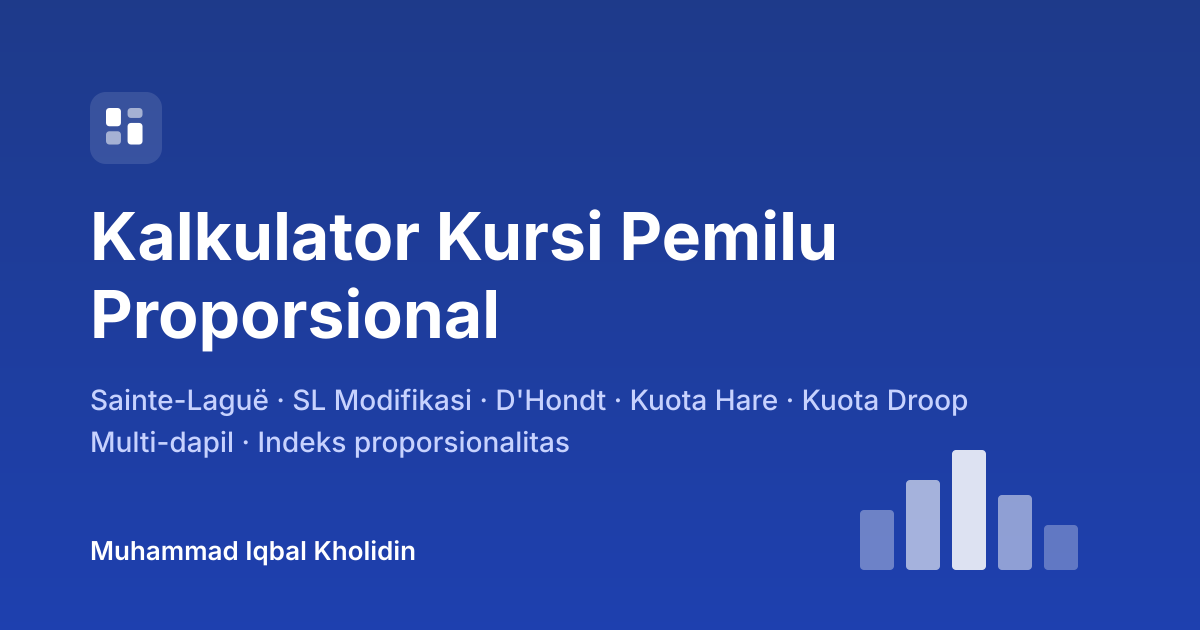
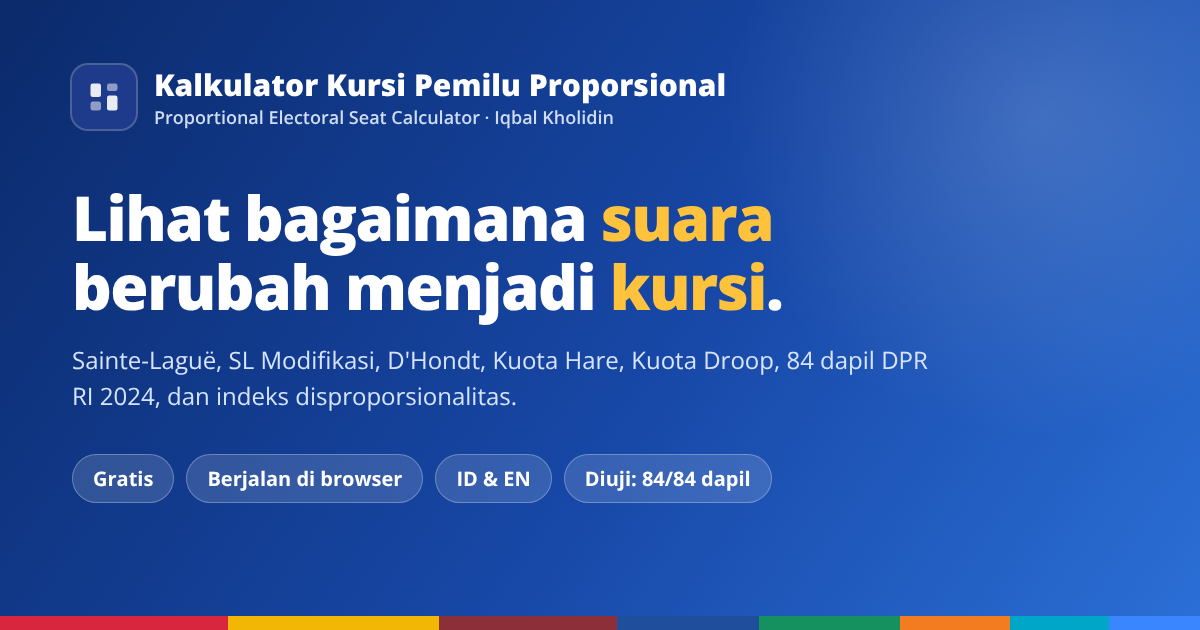
v2.0.1 (7/7): menu tautan, nama bulan, gambar pratinjau, changelog

diff --git a/index.html b/index.html
@@ -25,7 +25,7 @@
 <link href="https://fonts.googleapis.com/css2?family=Open+Sans:ital,wght@0,300;0,400;0,600;0,700;0,800;1,400&display=swap" rel="stylesheet">
 <script src="https://cdnjs.cloudflare.com/ajax/libs/Chart.js/4.4.1/chart.umd.min.js"></script>
 <script>(function(){try{var t=localStorage.getItem('kk-theme');if(!t&&window.matchMedia&&matchMedia('(prefers-color-scheme: dark)').matches)t='dark';if(t==='dark')document.documentElement.setAttribute('data-theme','dark');}catch(e){}})();</script>
-<link rel="stylesheet" href="css/style.css?v=2.0.0">
+<link rel="stylesheet" href="css/style.css?v=2.0.1">
 </head>
 <body>
 
@@ -57,17 +57,17 @@
 <header class="hdr" id="hdr"><div class="hdr-in">
   <a class="brand" href="/" onclick="goTo('home');return false"><span class="brand-logo"><svg viewBox="0 0 24 24" fill="none" aria-hidden="true"><rect x="3" y="3" width="7" height="9" rx="1.5" fill="white" opacity="0.9"/><rect x="3" y="15" width="7" height="6" rx="1.5" fill="white" opacity="0.5"/><rect x="14" y="3" width="7" height="5" rx="1.5" fill="white" opacity="0.5"/><rect x="14" y="11" width="7" height="10" rx="1.5" fill="white" opacity="0.9"/></svg></span><span class="brand-tx"><b data-i18n="brand_short">Kalkulator Kursi</b><small data-i18n="brand_sub">Pemilu Proporsional · Iqbal Kholidin</small></span></a>
   <nav class="mainnav" aria-label="Menu utama">
-    <button id="nb-home" class="active" onclick="goTo('home')" data-i18n="nav_home">Beranda</button>
-    <button id="nb-calc" onclick="goTo('calc')" data-i18n="nav_s_calc">Satu Dapil</button>
-    <button id="nb-multi" onclick="goTo('multi')" data-i18n="nav_s_multi">Multi-Dapil</button>
-    <button id="nb-index" onclick="goTo('index')" data-i18n="nav_index">Indeks</button>
+    <a id="nb-home" class="active" href="/" onclick="goTo('home');return false" data-i18n="nav_home">Beranda</a>
+    <a id="nb-calc" href="/satu-dapil/" onclick="goTo('calc');return false" data-i18n="nav_s_calc">Satu Dapil</a>
+    <a id="nb-multi" href="/multi-dapil/" onclick="goTo('multi');return false" data-i18n="nav_s_multi">Multi-Dapil</a>
+    <a id="nb-index" href="/indeks/" onclick="goTo('index');return false" data-i18n="nav_index">Indeks</a>
     <div class="dd" id="ddGuide"><button class="dd-btn" onclick="toggleGuide(event)" aria-haspopup="true"><span data-i18n="nav_guide">Panduan</span><span class="chev">&#9662;</span></button>
       <div class="dd-menu">
-        <button id="nb-tutorial" onclick="goTo('tutorial')"><span data-i18n="nav_tutorial">Tutorial</span><small data-i18n="nav_g_tut">Langkah memakai kalkulator</small></button>
-        <button id="nb-meth" onclick="goTo('meth')"><span data-i18n="nav_meth">Metodologi</span><small data-i18n="nav_g_meth">Rumus, dasar hukum, dan rujukan</small></button>
-        <button id="nb-validasi" onclick="goTo('validasi')"><span data-i18n="nav_validasi">Validasi</span><small data-i18n="nav_g_val">Uji hasil terhadap data resmi</small></button>
+        <a id="nb-tutorial" href="/tutorial/" onclick="goTo('tutorial');return false"><span data-i18n="nav_tutorial">Tutorial</span><small data-i18n="nav_g_tut">Langkah memakai kalkulator</small></a>
+        <a id="nb-meth" href="/metodologi/" onclick="goTo('meth');return false"><span data-i18n="nav_meth">Metodologi</span><small data-i18n="nav_g_meth">Rumus, dasar hukum, dan rujukan</small></a>
+        <a id="nb-validasi" href="/validasi/" onclick="goTo('validasi');return false"><span data-i18n="nav_validasi">Validasi</span><small data-i18n="nav_g_val">Uji hasil terhadap data resmi</small></a>
       </div></div>
-    <button id="nb-about" onclick="goTo('about')" data-i18n="nav_about">Profil</button>
+    <a id="nb-about" href="/profil/" onclick="goTo('about');return false" data-i18n="nav_about">Profil</a>
   </nav>
   <div class="hdr-tools">
     <div class="lang-sw"><button id="lang-id" class="on" onclick="setLang('id')">ID</button><button id="lang-en" onclick="setLang('en')">EN</button></div>
@@ -120,13 +120,13 @@
     <div class="home-cards">
       <div class="hcard hc1" onclick="goTo('calc')"><div class="ic"><svg viewBox="0 0 24 24" fill="none" stroke="currentColor" stroke-width="2" stroke-linecap="round" aria-hidden="true"><rect x="4" y="4" width="16" height="16" rx="3"/><path d="M8 15v-3M12 15V9M16 15v-5"/></svg></div>
         <h3 data-i18n="home_c1_h">Kalkulator Satu Dapil</h3><p data-i18n="home_c1_p"></p>
-        <ul><li data-i18n="home_c1_l1"></li><li data-i18n="home_c1_l2"></li><li data-i18n="home_c1_l3"></li></ul><span class="go" data-i18n="home_go">Buka kalkulator →</span></div>
+        <ul><li data-i18n="home_c1_l1"></li><li data-i18n="home_c1_l2"></li><li data-i18n="home_c1_l3"></li></ul><a class="go" href="/satu-dapil/" onclick="event.stopPropagation();goTo('calc');return false" data-i18n="home_go">Buka kalkulator →</a></div>
       <div class="hcard hc2" onclick="goTo('multi')"><div class="ic"><svg viewBox="0 0 24 24" fill="none" stroke="currentColor" stroke-width="2" stroke-linecap="round" aria-hidden="true"><rect x="3" y="4" width="8" height="7" rx="2"/><rect x="13" y="4" width="8" height="7" rx="2"/><rect x="3" y="13" width="8" height="7" rx="2"/><rect x="13" y="13" width="8" height="7" rx="2"/></svg></div>
         <h3 data-i18n="home_c2_h">Kalkulator Multi-Dapil</h3><p data-i18n="home_c2_p"></p>
-        <ul><li data-i18n="home_c2_l1"></li><li data-i18n="home_c2_l2"></li><li data-i18n="home_c2_l3"></li></ul><span class="go" data-i18n="home_go">Buka kalkulator →</span></div>
+        <ul><li data-i18n="home_c2_l1"></li><li data-i18n="home_c2_l2"></li><li data-i18n="home_c2_l3"></li></ul><a class="go" href="/multi-dapil/" onclick="event.stopPropagation();goTo('multi');return false" data-i18n="home_go">Buka kalkulator →</a></div>
       <div class="hcard hc3" onclick="goTo('index')"><div class="ic"><svg viewBox="0 0 24 24" fill="none" stroke="currentColor" stroke-width="2" stroke-linecap="round" aria-hidden="true"><path d="M4 19h16"/><path d="M6 15l4-5 3 3 5-7"/></svg></div>
         <h3 data-i18n="home_c3_h">Indeks Disproporsionalitas</h3><p data-i18n="home_c3_p"></p>
-        <ul><li data-i18n="home_c3_l1"></li><li data-i18n="home_c3_l2"></li><li data-i18n="home_c3_l3"></li></ul><span class="go" data-i18n="home_go">Buka kalkulator →</span></div>
+        <ul><li data-i18n="home_c3_l1"></li><li data-i18n="home_c3_l2"></li><li data-i18n="home_c3_l3"></li></ul><a class="go" href="/indeks/" onclick="event.stopPropagation();goTo('index');return false" data-i18n="home_go">Buka kalkulator →</a></div>
     </div>
   </div></section>
 
@@ -541,12 +541,12 @@
       </ol>
       <div class="pf-sub" data-i18n="pf_pub_s2">Tulisan populer</div>
       <ul class="pf-pubs pf-op">
-        <li><a href="https://www.newmandala.org/the-cost-of-low-cost-local-elections-in-indonesia/" target="_blank" rel="noopener">The cost of ‘low-cost’ local elections in Indonesia</a> <span>New Mandala, 23 Feb 2026 (<span data-i18n="pf_with">bersama</span> Kahfi Adlan Hafiz)</span></li>
-        <li><a href="https://nasional.kompas.com/read/2026/10/06/16400071/revisi-uu-pemilu--memastikan-kesetaraan-politik-penyandang-disabilitas" target="_blank" rel="noopener">Revisi UU Pemilu: Memastikan Kesetaraan Politik Penyandang Disabilitas</a> <span>Kompas.com, 6 Okt 2026</span></li>
-        <li><a href="https://www.hukumonline.com/berita/a/dapil-khusus-luar-negeri--menata-representasi-politik-dalam-revisi-uu-pemilu-lt6a7c4dbef3a62/" target="_blank" rel="noopener">Dapil Khusus Luar Negeri: Menata Representasi Politik dalam Revisi UU Pemilu</a> <span>Hukumonline, 12 Agu 2026</span></li>
-        <li><a href="https://rumahpemilu.or.id/quo-vadis-ambang-batas-parlemen/" target="_blank" rel="noopener">Quo Vadis Ambang Batas Parlemen?</a> <span>Rumah Pemilu, 20 Feb 2026</span></li>
-        <li><a href="https://nasional.kompas.com/read/2025/12/28/08300061/pilkada-tidak-langsung-dan-logika-efisiensi-yang-keliru" target="_blank" rel="noopener">Pilkada Tidak Langsung dan Logika Efisiensi yang Keliru</a> <span>Kompas.com, 28 Des 2025</span></li>
-        <li><a href="https://news.detik.com/kolom/d-7881613/usulan-untuk-perbaikan-sistem-pemilu" target="_blank" rel="noopener">Usulan untuk Perbaikan Sistem Pemilu</a> <span>detik.com, 23 Apr 2025</span></li>
+        <li><a href="https://www.newmandala.org/the-cost-of-low-cost-local-elections-in-indonesia/" target="_blank" rel="noopener">The cost of ‘low-cost’ local elections in Indonesia</a> <span>New Mandala, 23 <span data-i18n="m_feb">Feb</span> 2026 (<span data-i18n="pf_with">bersama</span> Kahfi Adlan Hafiz)</span></li>
+        <li><a href="https://nasional.kompas.com/read/2026/10/06/16400071/revisi-uu-pemilu--memastikan-kesetaraan-politik-penyandang-disabilitas" target="_blank" rel="noopener">Revisi UU Pemilu: Memastikan Kesetaraan Politik Penyandang Disabilitas</a> <span>Kompas.com, 6 <span data-i18n="m_oct">Okt</span> 2026</span></li>
+        <li><a href="https://www.hukumonline.com/berita/a/dapil-khusus-luar-negeri--menata-representasi-politik-dalam-revisi-uu-pemilu-lt6a7c4dbef3a62/" target="_blank" rel="noopener">Dapil Khusus Luar Negeri: Menata Representasi Politik dalam Revisi UU Pemilu</a> <span>Hukumonline, 12 <span data-i18n="m_aug">Agu</span> 2026</span></li>
+        <li><a href="https://rumahpemilu.or.id/quo-vadis-ambang-batas-parlemen/" target="_blank" rel="noopener">Quo Vadis Ambang Batas Parlemen?</a> <span>Rumah Pemilu, 20 <span data-i18n="m_feb">Feb</span> 2026</span></li>
+        <li><a href="https://nasional.kompas.com/read/2025/12/28/08300061/pilkada-tidak-langsung-dan-logika-efisiensi-yang-keliru" target="_blank" rel="noopener">Pilkada Tidak Langsung dan Logika Efisiensi yang Keliru</a> <span>Kompas.com, 28 <span data-i18n="m_dec">Des</span> 2025</span></li>
+        <li><a href="https://news.detik.com/kolom/d-7881613/usulan-untuk-perbaikan-sistem-pemilu" target="_blank" rel="noopener">Usulan untuk Perbaikan Sistem Pemilu</a> <span>detik.com, 23 <span data-i18n="m_apr">Apr</span> 2025</span></li>
       </ul>
     </section>
     <section class="card">
@@ -727,14 +727,14 @@ Dua desimal, dipotong    → 106.677,66</div>
       <a class="brand" href="/" onclick="goTo('home');return false"><span class="brand-logo"><svg viewBox="0 0 24 24" fill="none" aria-hidden="true"><rect x="3" y="3" width="7" height="9" rx="1.5" fill="white" opacity="0.9"/><rect x="3" y="15" width="7" height="6" rx="1.5" fill="white" opacity="0.5"/><rect x="14" y="3" width="7" height="5" rx="1.5" fill="white" opacity="0.5"/><rect x="14" y="11" width="7" height="10" rx="1.5" fill="white" opacity="0.9"/></svg></span><span class="brand-tx"><b data-i18n="brand_short">Kalkulator Kursi</b><small data-i18n="brand_sub">Pemilu Proporsional · Iqbal Kholidin</small></span></a>
     </div>
     <div class="footer-links">
-      <span onclick="goTo('home')" data-i18n="nav_home">Beranda</span><span class="footer-sep">·</span>
-      <span onclick="goTo('calc')" data-i18n="nav_calc">Kalkulator Satu Dapil</span><span class="footer-sep">·</span>
-      <span onclick="goTo('multi')" data-i18n="nav_multi">Kalkulator Multi-Dapil</span><span class="footer-sep">·</span>
-      <span onclick="goTo('index')" data-i18n="nav_index">Indeks</span><span class="footer-sep">·</span>
-      <span onclick="goTo('tutorial')" data-i18n="nav_tutorial">Tutorial</span><span class="footer-sep">·</span>
-      <span onclick="goTo('meth')" data-i18n="nav_meth">Metodologi</span><span class="footer-sep">·</span>
-      <span onclick="goTo('validasi')" data-i18n="nav_validasi">Validasi</span><span class="footer-sep">·</span>
-      <span onclick="goTo('about')" data-i18n="nav_about">Profil</span><span class="footer-sep">·</span>
+      <a href="/" onclick="goTo('home');return false" data-i18n="nav_home">Beranda</a><span class="footer-sep">·</span>
+      <a href="/satu-dapil/" onclick="goTo('calc');return false" data-i18n="nav_calc">Kalkulator Satu Dapil</a><span class="footer-sep">·</span>
+      <a href="/multi-dapil/" onclick="goTo('multi');return false" data-i18n="nav_multi">Kalkulator Multi-Dapil</a><span class="footer-sep">·</span>
+      <a href="/indeks/" onclick="goTo('index');return false" data-i18n="nav_index">Indeks</a><span class="footer-sep">·</span>
+      <a href="/tutorial/" onclick="goTo('tutorial');return false" data-i18n="nav_tutorial">Tutorial</a><span class="footer-sep">·</span>
+      <a href="/metodologi/" onclick="goTo('meth');return false" data-i18n="nav_meth">Metodologi</a><span class="footer-sep">·</span>
+      <a href="/validasi/" onclick="goTo('validasi');return false" data-i18n="nav_validasi">Validasi</a><span class="footer-sep">·</span>
+      <a href="/profil/" onclick="goTo('about');return false" data-i18n="nav_about">Profil</a><span class="footer-sep">·</span>
       <span onclick="openCiteModal()" data-i18n="cite_footer_link">Cara Mengutip</span><span class="footer-sep">·</span>
       <a href="https://orcid.org/0009-0008-4313-7644" target="_blank" rel="noopener">ORCID</a><span class="footer-sep">·</span>
       <a href="https://www.linkedin.com/in/muhammadiqbalkholidin/" target="_blank" rel="noopener">LinkedIn</a><span class="footer-sep">·</span>
@@ -745,16 +745,16 @@ Dua desimal, dipotong    → 106.677,66</div>
   </div>
 </footer>
 
-<script src="js/teks.js?v=2.0.0"></script>
-<script src="js/navigasi.js?v=2.0.0"></script>
-<script src="js/data-dpr2024.js?v=2.0.0"></script>
-<script src="js/metode.js?v=2.0.0"></script>
-<script src="js/satu-dapil.js?v=2.0.0"></script>
-<script src="js/satu-dapil-hasil.js?v=2.0.0"></script>
-<script src="js/grafik-ringkasan.js?v=2.0.0"></script>
-<script src="js/multi-dapil.js?v=2.0.0"></script>
-<script src="js/indeks.js?v=2.0.0"></script>
-<script src="js/validasi.js?v=2.0.0"></script>
-<script src="js/init.js?v=2.0.0"></script>
+<script src="js/teks.js?v=2.0.1"></script>
+<script src="js/navigasi.js?v=2.0.1"></script>
+<script src="js/data-dpr2024.js?v=2.0.1"></script>
+<script src="js/metode.js?v=2.0.1"></script>
+<script src="js/satu-dapil.js?v=2.0.1"></script>
+<script src="js/satu-dapil-hasil.js?v=2.0.1"></script>
+<script src="js/grafik-ringkasan.js?v=2.0.1"></script>
+<script src="js/multi-dapil.js?v=2.0.1"></script>
+<script src="js/indeks.js?v=2.0.1"></script>
+<script src="js/validasi.js?v=2.0.1"></script>
+<script src="js/init.js?v=2.0.1"></script>
 </body>
 </html>

diff --git a/README.id.md b/README.id.md
@@ -470,9 +470,18 @@ node tests/run-tests.mjs
 
 Uji yang sama juga berjalan otomatis di GitHub setiap kali ada perubahan yang diunggah, melalui berkas `.github/workflows/tests.yml`.
 
-Situs di Netlify dibangun dari repositori ini sesuai `netlify.toml`: uji dijalankan lebih dulu, lalu `tools/build-pages.mjs` membuat satu halaman untuk setiap fitur (Beranda di `/`, lalu misalnya `/satu-dapil/`, `/multi-dapil/`, dan `/indeks/`) beserta `sitemap.xml`. Kalau uji gagal, situs tidak diperbarui.
+Situs di Netlify dibangun dari repositori ini sesuai `netlify.toml`: uji dijalankan lebih dulu, lalu `tools/build-pages.mjs` membuat satu halaman untuk setiap fitur (Beranda di `/`, lalu misalnya `/satu-dapil/`, `/multi-dapil/`, dan `/indeks/`) beserta `sitemap.xml`, lalu `tests/check-dist.mjs` memeriksa hasilnya. Kalau salah satu uji gagal, situs tidak diperbarui.
 
 ## Riwayat Versi
+
+### v2.0.1 — Perbaikan untuk Mesin Pencari
+
+* HTML awal setiap alamat kini sudah berisi teks bahasa Indonesia, langsung menampilkan halamannya sendiri, dan hanya memuat isi halaman itu, sehingga mesin pencari tidak lagi melihat delapan alamat dengan isi yang sama; isi halaman lain diambil dari `halaman.html` (tidak diindeks) sebelum kode kalkulator dijalankan;
+* menu, tautan kaki halaman, dan tautan antarhalaman memakai alamat sungguhan (misalnya `/satu-dapil/`), sehingga bisa diikuti mesin pencari;
+* data terstruktur ditambahkan: profil pembuat di halaman Profil dan jejak navigasi di halaman lain;
+* gambar pratinjau tautan diperbarui ke tampilan baru, halaman 404 ditambahkan, dan nama bulan di daftar tulisan Profil mengikuti bahasa yang dipilih;
+* uji baru `tests/check-dist.mjs` memeriksa hasil build sebelum situs diperbarui: halaman yang tampil, menu aktif, tidak ada teks kosong, alamat kanonis, dan isi tiap alamat yang berbeda;
+* hitungan tidak berubah; 60 keluaran perhitungan sama persis dengan versi sebelumnya.
 
 ### v2.0.0 — Tampilan Baru dan Halaman Beranda
 

diff --git a/README.md b/README.md
@@ -470,9 +470,18 @@ node tests/run-tests.mjs
 
 The same tests also run automatically on GitHub for every push, via `.github/workflows/tests.yml`.
 
-The Netlify site is built from this repository according to `netlify.toml`: the tests run first, then `tools/build-pages.mjs` generates one page per feature (Home at `/`, then for example `/satu-dapil/`, `/multi-dapil/`, and `/indeks/`) plus `sitemap.xml`. If the tests fail, the site is not updated.
+The Netlify site is built from this repository according to `netlify.toml`: the tests run first, then `tools/build-pages.mjs` generates one page per feature (Home at `/`, then for example `/satu-dapil/`, `/multi-dapil/`, and `/indeks/`) plus `sitemap.xml`, and `tests/check-dist.mjs` then checks the result. If any test fails, the site is not updated.
 
 ## Version History
+
+### v2.0.1 — Search Engine Fixes
+
+* the initial HTML of every address now already contains the Indonesian text, shows its own page right away, and only carries that page's content, so search engines no longer see eight addresses with identical content; the other pages are fetched from `halaman.html` (not indexed) before the calculator code runs;
+* the menu, footer links, and in-page links use real addresses (such as `/satu-dapil/`), so search engines can follow them;
+* structured data is added: the author's profile on the Profile page and breadcrumbs on the other pages;
+* the link preview image is updated to the new design, a 404 page is added, and month names in the Profile writing list follow the selected language;
+* a new test, `tests/check-dist.mjs`, checks the build before the site is updated: the page shown, the active menu item, no empty text, the canonical address, and distinct content for every address;
+* calculations are unchanged; all 60 calculation outputs are identical to the previous version.
 
 ### v2.0.0 — New Design and Home Page
 
